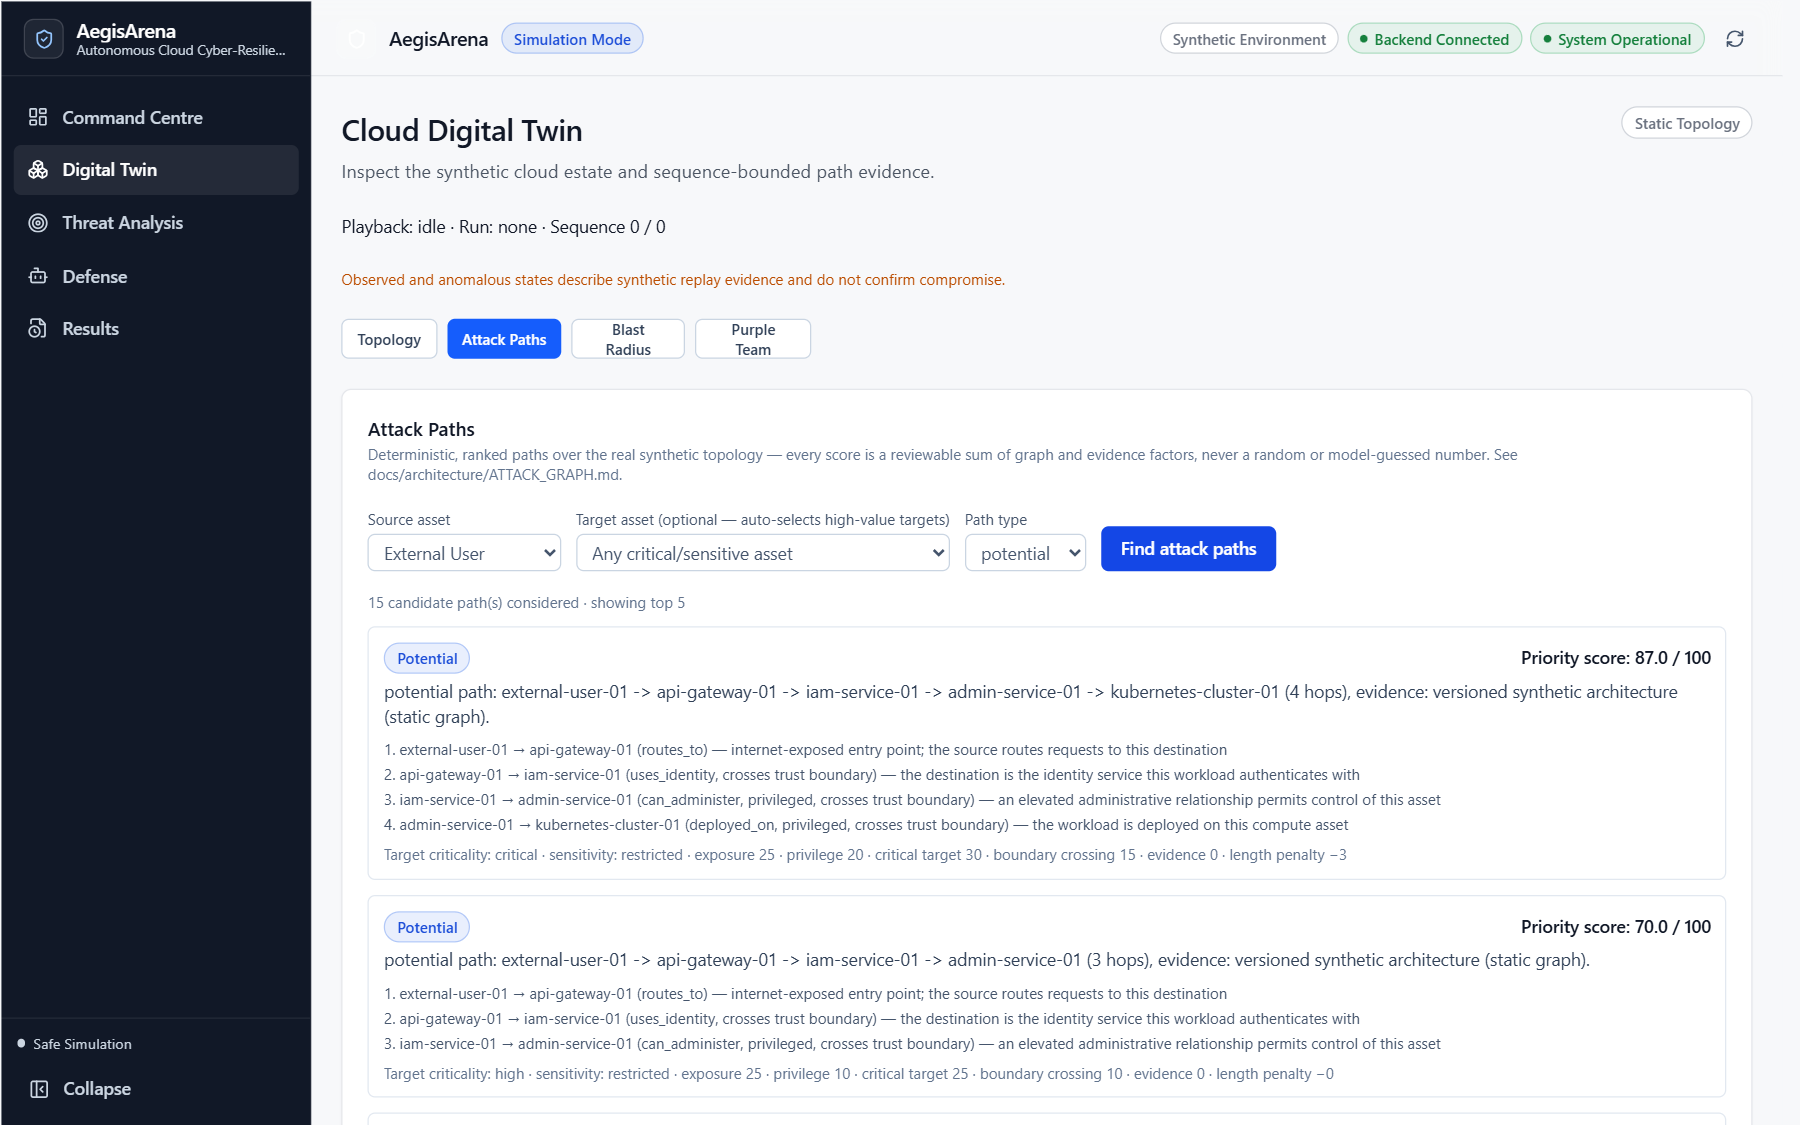
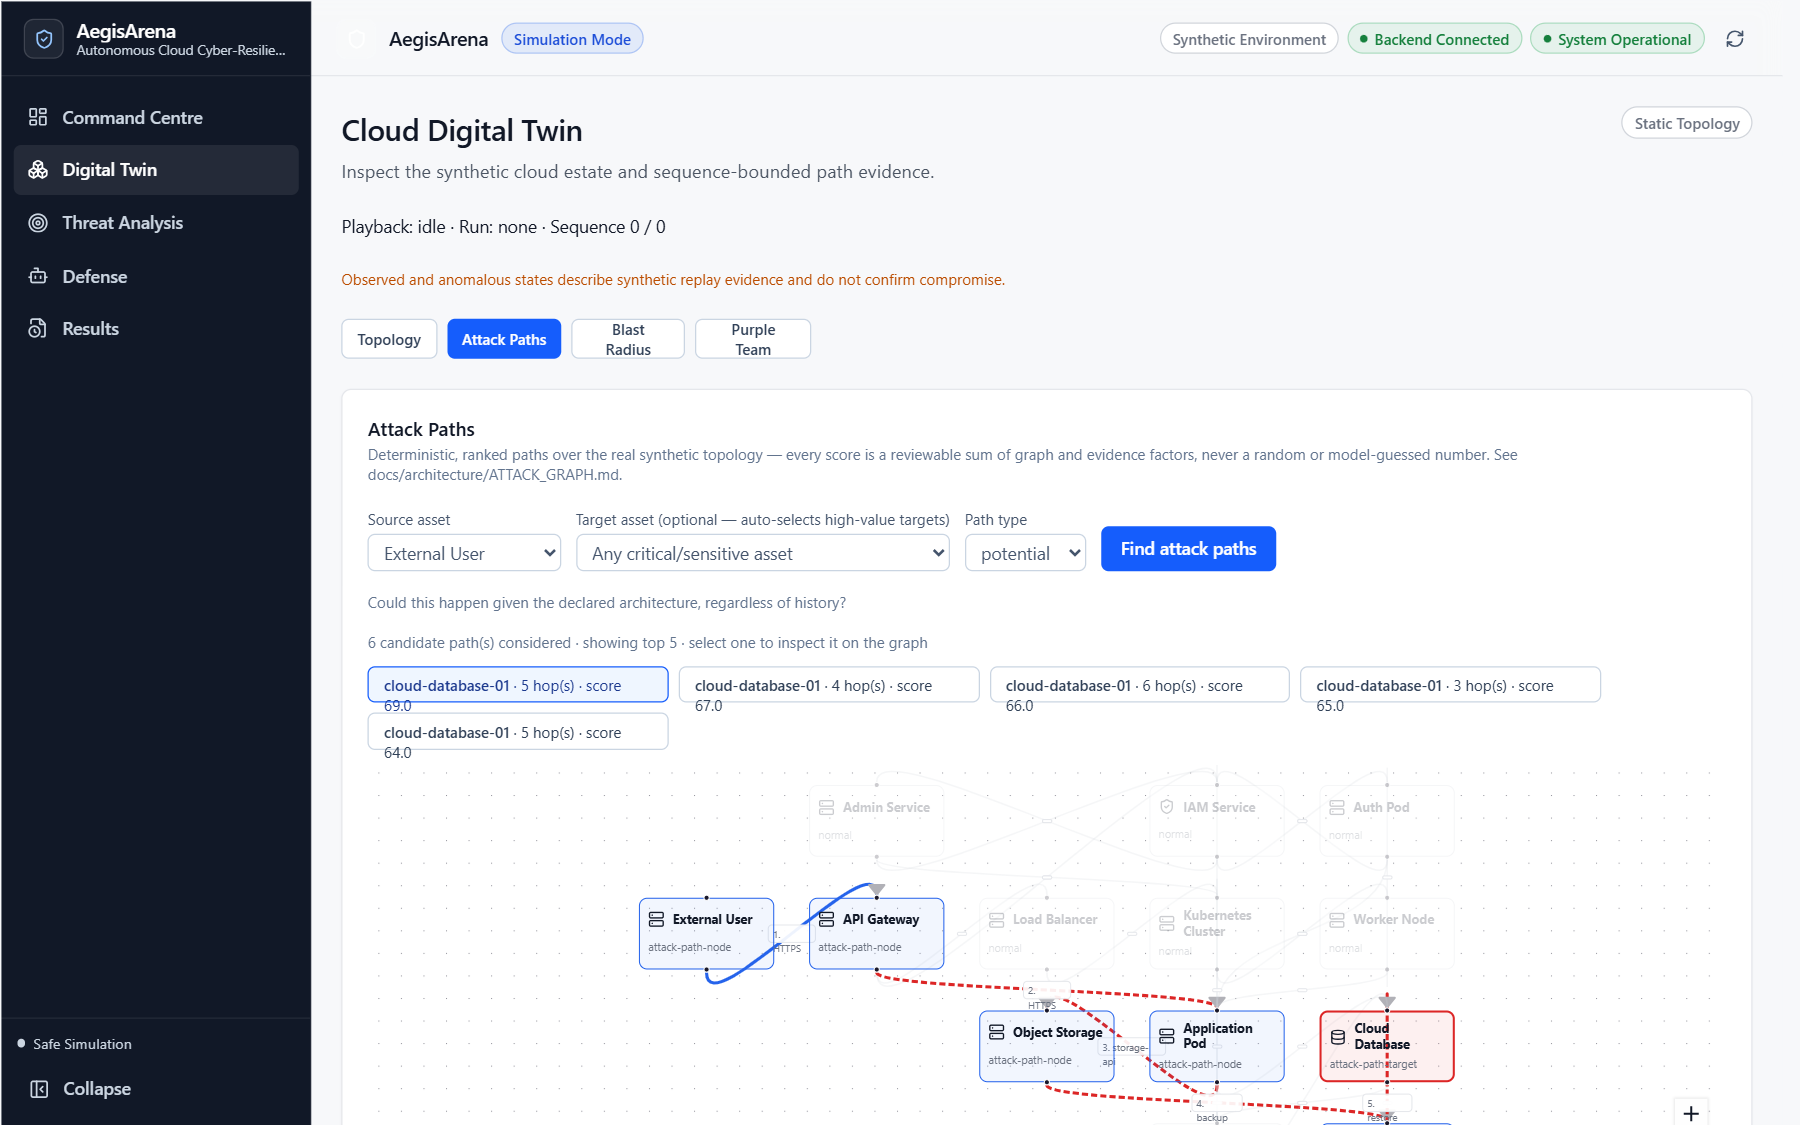
Update Phase 3 docs and refresh screenshot evidence after corrections
BLAST_RADIUS.md documents the new hypothetical/evidence_bound mode
semantics and the BLAST_RADIUS_EVIDENCE_REQUIRED error. PURPLE_TEAM.md
documents the real Attack Graph/Blast Radius integration and the
OBSERVED-REACHED vs. AT-RISK-REACHABLE distinction.

All 6 screenshots refreshed against the corrected UI: attack-paths.png and
attack-path-detail.png now show a selected path focused on the graph (not
only a textual list); blast-radius.png shows the graph-based affected
region with its legend; purple-team-running.png is a genuine in-flight
capture (the request was verified actually in progress at capture time),
replacing the earlier configured-but-idle screenshot that was mislabeled
"running"; purple-team-complete.png shows the corrected metrics and real
attack-path/blast-radius context.

Changed region(s): [[0.2178, 0.5289, 0.9644, 1.0]]

diff --git a/docs/architecture/BLAST_RADIUS.md b/docs/architecture/BLAST_RADIUS.md
@@ -6,19 +6,37 @@ compromised. It is explicitly an *estimate over the synthetic graph*,
 computed once per request from real topology data — never a production
 blast-radius claim, and never based on random or fabricated data.
 
-## Why the traversal always uses the full static graph
+## Run/sequence semantics: two explicit modes (`BlastRadiusResult.mode`)
 
-Unlike the Attack Graph engine's `observed`/`inferred`/`predicted` path
-types, blast-radius estimation always traverses the full set of
-`permitted` static edges, regardless of whether a `simulation_run_id`
-is supplied. This is a deliberate, conservative choice: blast radius
+The traversal always uses the full set of `permitted` static edges
+regardless of mode — that part is unchanged and deliberate: blast radius
 answers "what *could* be reached from here, worst case", not "what
-*has* been reached so far" — the latter question is already answered by
-the Attack Graph engine's `observed` path type. When a `run_id` is
-given, `topology_path_service.run_state(...)` is still called, but only
-to confirm the requested compromised assets are consistent with what
-has actually been observed in that run; it never narrows or changes the
-traversal itself.
+*has* been reached so far" (the latter question is already answered by
+the Attack Graph engine's `observed` path type). What changed is what
+"compromised" is allowed to mean:
+
+* **`hypothetical`** — no `simulation_run_id` supplied. A static
+  what-if: any asset may be named as compromised, with no claim that it
+  has actually happened. This is the original, unconditional behavior.
+* **`evidence_bound`** — a `simulation_run_id` is supplied. Every id in
+  `compromised_asset_ids` is checked against
+  `topology_path_service.run_state(...)`'s `observed_asset_ids ∪
+  anomalous_observed_asset_ids` computed through `through_sequence`
+  (never a later sequence — this is the same sequence-bounding
+  guarantee `topology_path_service.run_state` already enforces
+  everywhere else it's used). An asset not supported by evidence at
+  that point in the run raises `BLAST_RADIUS_EVIDENCE_REQUIRED` (422)
+  rather than being silently accepted or silently downgraded to
+  hypothetical — chosen over the "mark hypothetical" alternative
+  because a caller who explicitly supplied a `run_id` has asked for an
+  evidence-bound answer, and a silent mode switch would let a caller
+  believe they got one when they didn't. `through_sequence_number` on
+  the response is the *resolved* sequence limit (never the raw,
+  possibly-`None` input), so it's always inspectable.
+
+The traversal itself never narrows based on evidence — it always uses
+the full permitted static graph. Evidence only bounds the *starting
+set*, never the graph the search is run over.
 
 ## Algorithm
 
@@ -59,7 +77,9 @@ alongside the total.
 a `BlastRadiusQuery` body: `compromised_asset_ids` (1-10 items,
 required), optional `simulation_run_id`, `through_sequence_number`,
 `max_depth` (1-10, default 6). Returns `BlastRadiusResult`. An unknown
-asset id raises `BLAST_RADIUS_ASSET_NOT_FOUND` (404).
+asset id raises `BLAST_RADIUS_ASSET_NOT_FOUND` (404); an asset
+unsupported by evidence at the given sequence (evidence-bound mode
+only) raises `BLAST_RADIUS_EVIDENCE_REQUIRED` (422).
 
 ## Events
 

diff --git a/docs/architecture/PURPLE_TEAM.md b/docs/architecture/PURPLE_TEAM.md
@@ -88,6 +88,41 @@ For every experiment (`PurpleTeamService.run_experiment`):
 - `final_outcome` = `"contained"` if any step is `blocked_synthetic`,
   else `"detected"` if any step was detected, else `"undetected"`.
 
+## Attack Graph and Blast Radius integration
+
+`PurpleTeamService._derive_security_context` runs after step evaluation
+and calls the real `AttackGraphService`/`BlastRadiusService` — the same
+services the standalone Digital Twin tabs use, never a duplicate. It
+never claims an asset was compromised merely because it is statically
+reachable; two distinct notions are kept separate:
+
+* **OBSERVED / REACHED** (`PurpleTeamSummary.critical_assets_reached`,
+  `attack_path_context.path_type == "observed"`) — derived from
+  `topology_path_service.run_state(...).anomalous_observed_asset_ids`,
+  i.e. real telemetry evidence that anomaly detection actually flagged
+  during this run. `critical_assets_reached` is the subset of that set
+  with `criticality in {high, critical}`.
+* **AT RISK / REACHABLE** (`blast_radius_context.critical_assets_at_risk`,
+  `.reachable_count`, `.trust_zones_reached`) — a `BlastRadiusService`
+  estimate, always a reachability claim, never an "actually happened"
+  claim, per `docs/architecture/BLAST_RADIUS.md`.
+
+Concretely: `attack_path_context` is the real top-ranked path (`max_paths=1`)
+from the scenario's structured `initial_access_point` to its
+`high_value_objective` (see `app/schemas/red_scenario.py`) —
+`path_type=observed` (evidence-bound, run-scoped) when the run actually
+produced anomalous-observed evidence, honestly falling back to
+`path_type=potential` (no run/model passed) when it did not, rather than
+fabricating observed evidence that doesn't exist. `blast_radius_context`
+is rooted at the real anomalous-observed asset set when non-empty
+(queried in `evidence_bound` mode, which is always internally consistent
+since that same set is what defines the evidence), falling back to the
+scenario's `initial_access_point` in `hypothetical` mode when no
+anomalies were observed at all (e.g. `normal-operations`). Both calls
+pass the experiment id as `correlation_id` so their published events
+(`attack.path.discovered`, `blast_radius.assessed`) correlate with this
+experiment's own event stream.
+
 ## Idempotency
 
 `experiment_id = uuid5(NAMESPACE, f"{scenario_id}:{mode}:{seed}")`,
